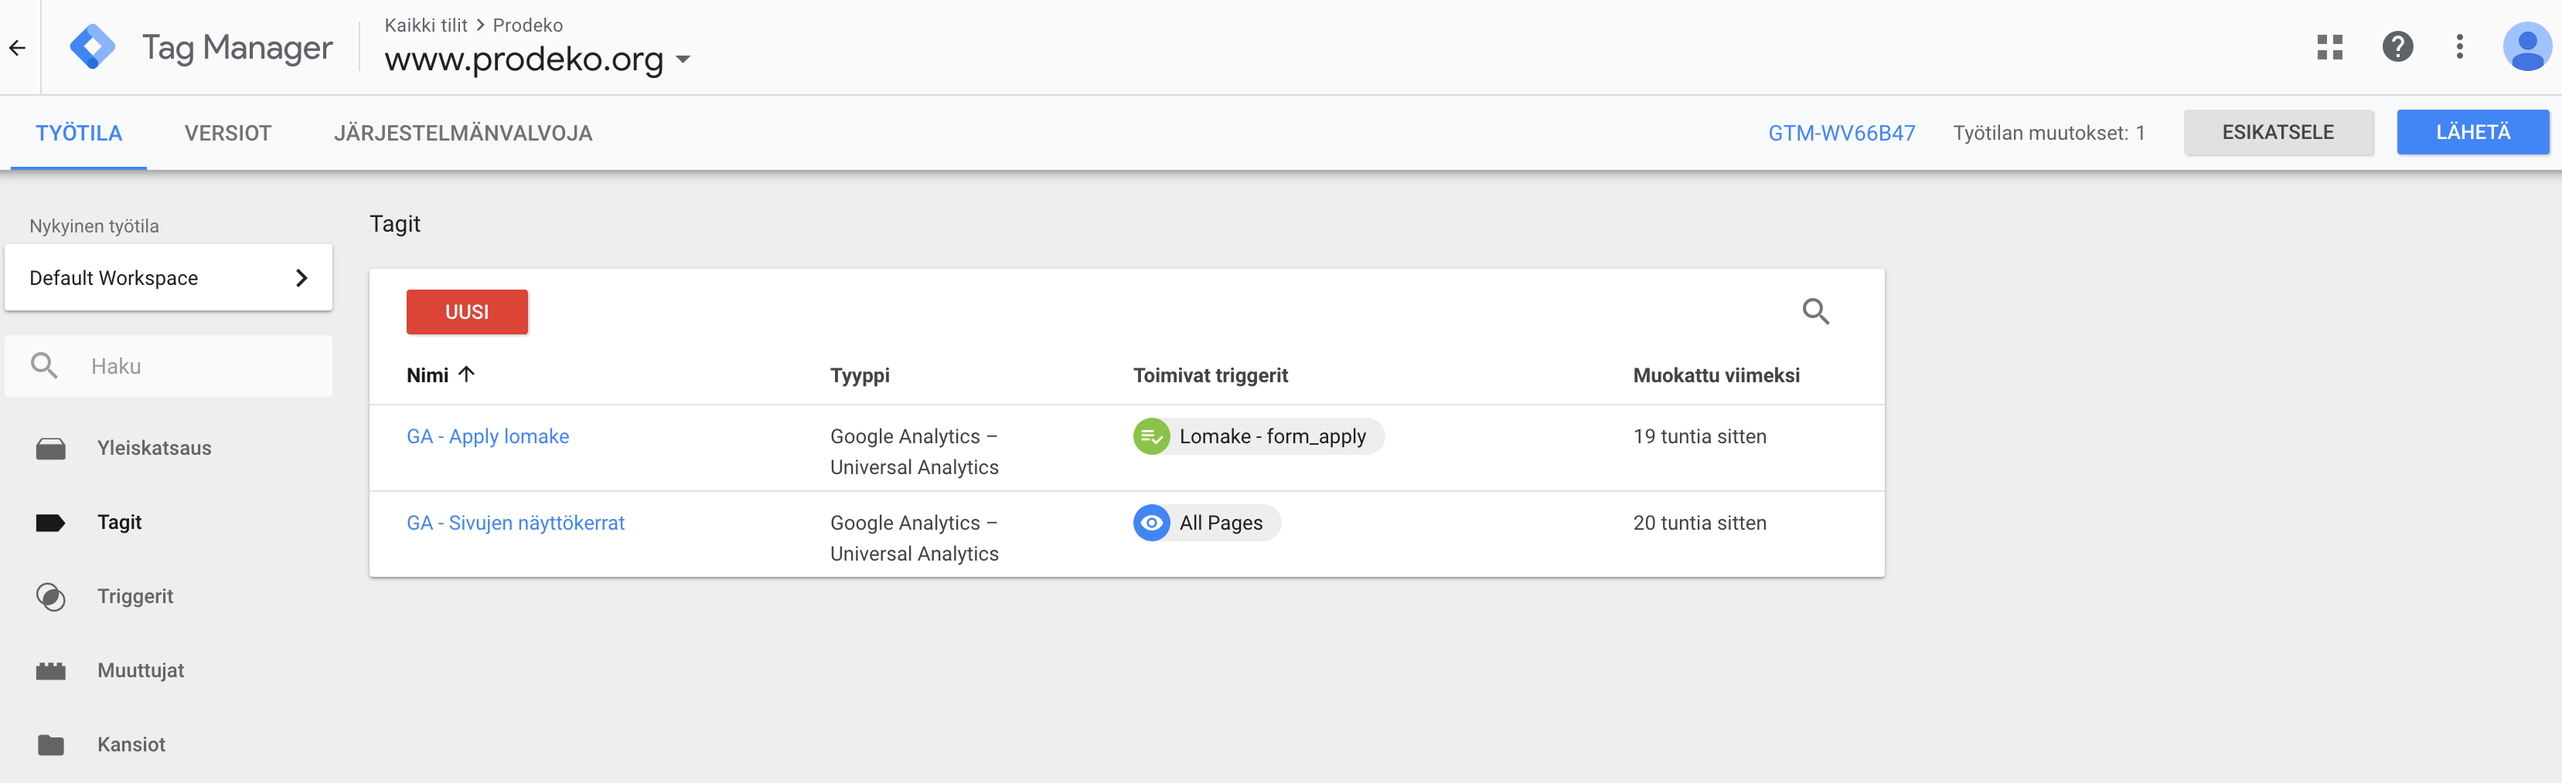
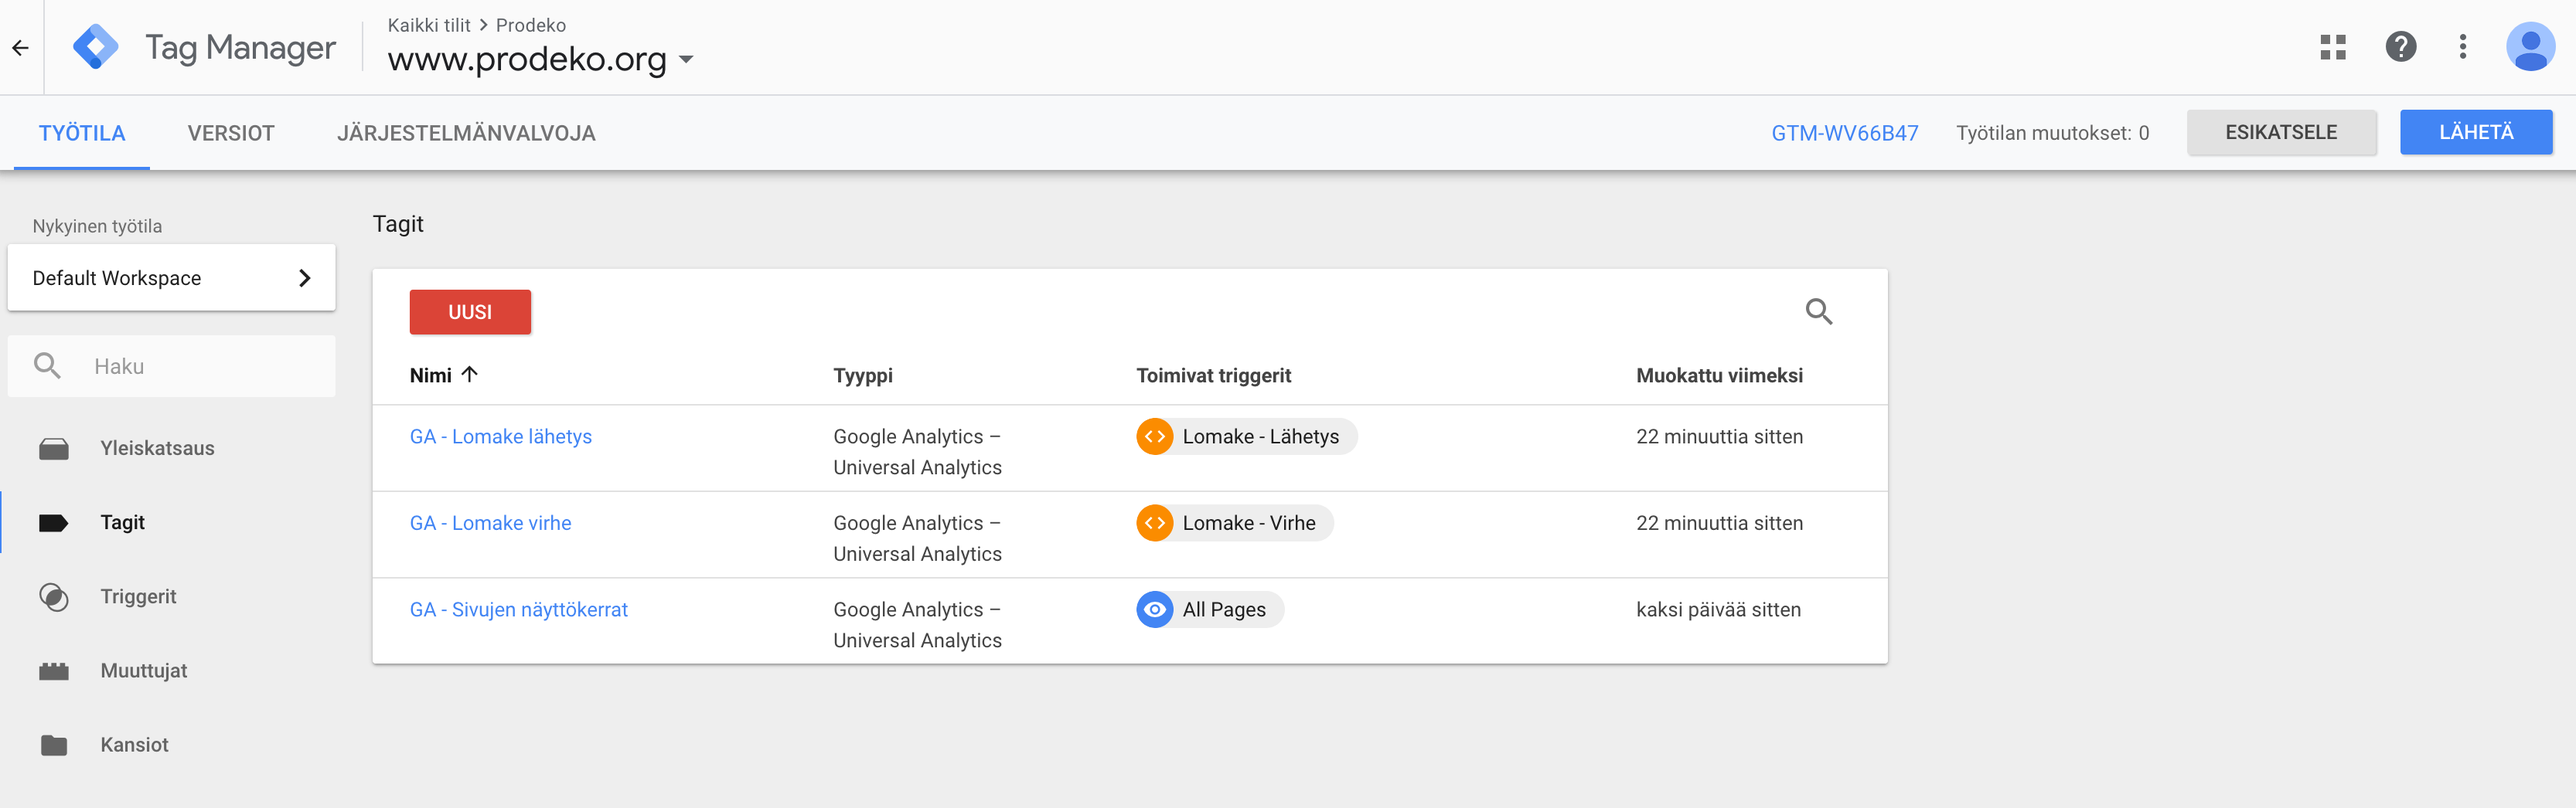
Add form error and submission tracking to Google Analytics
Adds form error and submission tracking to app_kulukorvaus and app_apply_for_membership.
Also adds relevant documentation

diff --git a/prodekoorg/app_apply_for_membership/static/js/apply_for_membership-custom.js b/prodekoorg/app_apply_for_membership/static/js/apply_for_membership-custom.js
@@ -50,12 +50,16 @@ $(document).ready(function () {
             contentType: false, // Indicates 'multipart/form-data'
             processData: false,
             success: function (data) {
+                // Google Analytics form submission tracking
+                dataLayer.push({'event' : 'formSubmitted', 'formName' : 'form_apply'});
                 document.write(data);
             },
 
             // Re-renders the same page with error texts.
             error: function (xhr, errmsg, err) {
                 if (xhr.status === 599) {
+                    // Google Analytics form error tracking
+                    dataLayer.push({'event' : 'formError', 'formName' : 'form_apply'});
                     $("#form-apply-wrapper").replaceWith(xhr.responseText);
                     document.getElementById("id_receipt").addEventListener("change", showFileName);
                 }

diff --git a/prodekoorg/app_kulukorvaus/static/js/kulukorvaus-custom.js b/prodekoorg/app_kulukorvaus/static/js/kulukorvaus-custom.js
@@ -26,12 +26,16 @@ $(document).ready(function () {
       contentType: false, // Indicates 'multipart/form-data'
       processData: false,
       success: function (data) {
+        // Google Analytics form submission tracking
+        dataLayer.push({'event' : 'formSubmitted', 'formName' : 'form_kulukorvaus'});
         document.write(data);
       },
 
       // Re-renders the same page with error texts.
       error: function (xhr, errmsg, err) {
         if (xhr.status === 599) {
+          // Google Analytics form error tracking
+          dataLayer.push({'event' : 'formError', 'formName' : 'form_kulukorvaus'});
           $("#forms-wrapper").replaceWith(xhr.responseText);
           new Formset(document.querySelector('#form_kulukorvaus'));
           handleFileUploads();

diff --git a/prodekoorg/settings.py b/prodekoorg/settings.py
@@ -438,6 +438,8 @@ LOGGING = {
     }
 }
 
+CSRF_TRUSTED_ORIGINS = '.google.com'
+
 # tiedotteet.prodeko.org settings
 SESSION_SAVE_EVERY_REQUEST = True
 SESSION_EXPIRE_AT_BROWSER_CLOSE = False

diff --git a/documentation/analytics.md b/documentation/analytics.md
@@ -57,6 +57,41 @@ Sivustolle on konfiguroitu [Google Analytics](https://analytics.google.com) ja [
 
 GTM:n kautta voi asentaa monenlaisia tagejä: sivuston katselukerrat, kuvan/linkin klikkaus, lomakkeen lähetys etc.
 
+### Sivun näyttökertojen seuranta
+
+Sivun näyttökertojen seurannan konfigurointi on helppoa. Tarvitaan ainoastaan yksi muuttuja, triggeri ja tägi.
+
+- Muuttuja __Google Analytics__ joka yhdistää Google Analyticsin ja Google Tag Managerin.
+![Google Analytics muuttuja](images/analytics/gtm-google-analytics-variable.png)
+
+- Määritettiin tag 'GA - Sivujen näyttökerrat' ('All pages' triggeri on valmiiksi määritetty)
+![Google Analytics sivujen näyttökerrat](images/analytics/gtm-pageviews.png)
+
+## Lomakkeen lähetyksen seuranta
+
+Appien app_kulukorvaus ja app_apply_for_membership lomakkeet lähtevät AJAX requesteinä palvelimelle, eikä GTM:n normaali 'Lomakkeen lähetys' trigger toimi niiden kanssa.
+
+!['Lomakkeen lähetys' trigger ei toimi](images/analytics/gtm-trigger-formsubmission.png)
+
+[Näiden ohjeiden](https://www.clickinsight.ca/blog/tracking-form-submissions-gtm) avulla määritettiin uudet custom eventit `formSubmitted` ja `formError` sekä uusi dataLayer muuttuja `formName` Google Tag Manageriin.
+
+Tämän jälkeen määritettiin tarvittavat tägit. Kokonaisuudessaan setup näyttää tältä:
+
+![GTM tägit](images/analytics/gtm-form-success-tag.png)
+![GTM tägit](images/analytics/gtm-form-error-tag.png)
+*Tägit*
+![GTM triggerit](images/analytics/gtm-form-success-trigger.png)
+![GTM triggerit](images/analytics/gtm-form-error-trigger.png)
+*Triggerit*
+![GTM muuttujat](images/analytics/gtm-datalayer-variable.png)
+*Muuttujat*
+
+Tämän lisäksi CSRF-validointia varten täytyy päivittää settings.py muuttuja `CSRF_TRUSTED_ORIGINS = '.google.com'`. Tämä johtuu siitä, että analytiikan tallentamiseksi lähtee GET-pyyntö Googlen palvelimelle, jolloin CSRF-token vanhenee.
+
+Nyt javascriptillä voi lähettää dataLayeriin custom tapahtumia (esim. prodekoorg/app_kulukorvaus/static/js/kulukorvaus-custom.js):
+
+![GTM muuttujat](images/analytics/gtm-datalayer-javascript.png)
+
 ## Muuta
 
 Google Analyticsiin on configuroitu linkitys Prodekon Google Ads accountin kanssa.
